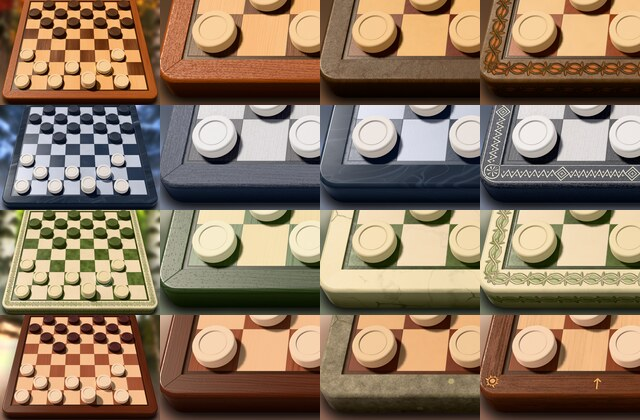
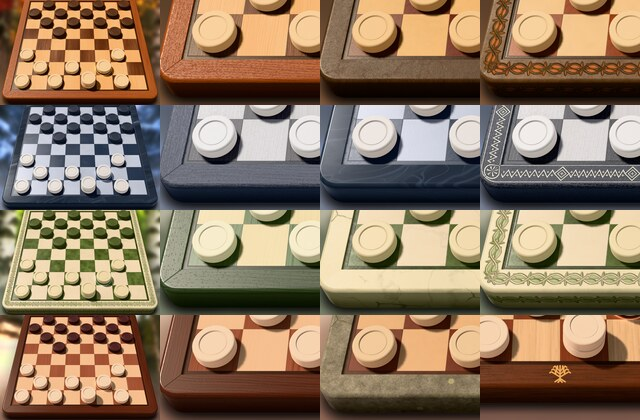
Draw the language as the Earth and crop summer's carved tile to its tree of life.

Changed region(s): [[0.75, 0.7429, 1.0, 1.0]]

diff --git a/prototypes/settings-takes.html b/prototypes/settings-takes.html
@@ -271,7 +271,7 @@
     '<path d="M6 16.5c0 2.5 1.8 4 4.5 4h1.5"/><path d="m10.5 18.5 2 2-2 2"/><path d="M18 7.5c0-2.5-1.8-4-4.5-4H12"/><path d="m13.5 5.5-2-2 2-2"/>';
   const NAMES_G = { a: 'a, as built', b: 'b, wireframe', c: 'c, the Earth', d: 'd, speech', e: 'e, in a ring',
     f: 'f, glyph and A', g: 'g, two bubbles', h: 'h, A to and fro' };
-  const globePick = get('globe', Object.keys(GLOBES), 'f');  // f chosen (2026-11-13; b before it)
+  const globePick = get('globe', Object.keys(GLOBES), 'c');  // c chosen in the app (2026-11-13; b, then f, before it)
   const globeSvg = (k) => `<svg class="icon" viewBox="0 0 24 24" aria-hidden="true">${GLOBES[k]}</svg>`;
   function langTop() {
     if (langUi === 'seg') return `<div class="langseg">${LANGS.map(([k, code]) => tile(lang === k, { lang: k }, code)).join('')}</div>`;

diff --git a/scripts/board_thumbs.py b/scripts/board_thumbs.py
@@ -30,6 +30,9 @@ CELL = (160, 105)       # a picture's texels: scene::THUMB_W × THUMB_H
 PICTURE = (76.0, 50.0)  # the picture in dp, whose shape the crops take
 CORNER_SIZE = 2.9       # the corner's crop: the shot 290% of the picture's width,
 CORNER_AT = (0.03, 0.93)  # placed as CSS background-position places it
+# Where a board's carving shows little at the corner, its crop elsewhere: summer's carved
+# oak has only a small sun there, its tree of life in the near side's middle (2026-11-13).
+CROP_AT = {("summer", "carved"): (0.5, 0.97)}
 
 # By theme (autumn, winter, spring, summer): board3d's flags for each material, and which
 # material is the season's own (Auto), as looks::of has them.
@@ -55,15 +58,15 @@ def whole(shot, out):
         "-filter", "Lanczos", "-resize", f"{CELL[0]}x{CELL[1]}!", out)
 
 
-def corner(shot, out):
+def corner(shot, out, at=CORNER_AT):
     """The near left corner: the picture's window on the shot scaled to CORNER_SIZE of its
     width, at CORNER_AT, in the shot's pixels."""
     w, h = SHOT
     bw = CORNER_SIZE * PICTURE[0]
     bh = bw * h / w
     scale = w / bw
-    x = -CORNER_AT[0] * (PICTURE[0] - bw) * scale
-    y = -CORNER_AT[1] * (PICTURE[1] - bh) * scale
+    x = -at[0] * (PICTURE[0] - bw) * scale
+    y = -at[1] * (PICTURE[1] - bh) * scale
     cw, ch = PICTURE[0] * scale, PICTURE[1] * scale
     run("magick", shot, "-crop", f"{round(cw)}x{round(ch)}+{round(x)}+{round(y)}", "+repage",
         "-filter", "Lanczos", "-resize", f"{CELL[0]}x{CELL[1]}!", out)
@@ -81,7 +84,7 @@ def main():
         whole(WORK / f"{season}-{own}.png", WORK / f"{season}-0.png")
         cells.append(WORK / f"{season}-0.png")
         for k, m in enumerate(MATERIALS):
-            corner(WORK / f"{season}-{m}.png", WORK / f"{season}-{k + 1}.png")
+            corner(WORK / f"{season}-{m}.png", WORK / f"{season}-{k + 1}.png", CROP_AT.get((season, m), CORNER_AT))
             cells.append(WORK / f"{season}-{k + 1}.png")
         row = WORK / f"{season}-row.png"
         run("magick", *cells, "+append", row)

diff --git a/docs/decisions/rendering.md b/docs/decisions/rendering.md
@@ -464,15 +464,16 @@ came on 2026-11-09.
 - The photograph or the plain fade is a Background row of two pictures, first in Look
   (2026-11-13), replacing the switch beside the theme's name (2026-11-09) and its
   halves under the 88 dp floor in a name's column.
-- The language is a button in the title row, a languages icon (`GLOBES.f`: a script's
-  glyph and an A, after Lucide's with our own strokes), its code, and a chevron, opening
-  a small list (2026-11-13; the wireframe globe, `GLOBES.b`, was chosen first the same day
-  and replaced: a languages icon says the choice more plainly than the world does). It replaces the languages' tiles on
+- The language is a button in the title row, the Earth (`GLOBES.c`: a ring round three
+  filled continents), its code, and a chevron, opening a small list (2026-11-13). Chosen
+  on the Mac after two others the same day: the wireframe globe (`GLOBES.b`) and a
+  languages icon after Lucide's (`GLOBES.f`, a glyph and an A), which on the app's
+  screen read less well than the Earth. It replaces the languages' tiles on
   glass in the title row (2026-11-07), which took its width from the title as languages
   are added, and a Language section at the list's foot (the prototypes' `langui=foot`),
   out of sight below the fold. Rejected: the codes as two tiles in the title row
-  (`langui=seg`), the globes (a, as built; b, wireframe; c, the Earth; e, a globe in a
-  ring), a speech bubble with an A (d), and the glyphs in two bubbles (g) or with arrows
+  (`langui=seg`), the other globes (a, as built; b, wireframe; e, a globe in a
+  ring), the languages glyph and A (f), a speech bubble with an A (d), and the glyphs in two bubbles (g) or with arrows
   between them (h).
 
 **The puzzle picker** (`puzzles.html`'s take a, a library list, chosen 2026-11-09).

diff --git a/docs/architecture/rendering.md b/docs/architecture/rendering.md
@@ -740,8 +740,7 @@ take b, `plain.html`'s fade b, and the like) are in git history only
   button in the row labels' 30 dp face, back is the arrow over the word in an 88 dp
   square; a title still too wide takes a smaller face, or none.
   **The language** is a button at the title row's right end, on glass as back is: a
-  languages icon (`gui::GLOBE`: a script's glyph at the top left, a bar, its tick, a
-  sweeping stroke and its foot, and an A at the bottom right), the language shown's code ("EN", "ET", from `strings::LANGUAGES`) in the
+  the Earth (`gui::GLOBE`: a ring round three filled continents), the language shown's code ("EN", "ET", from `strings::LANGUAGES`) in the
   body face, and a chevron down, lit while its list is open. A tap opens a small glass
   list under it, right-aligned with it, over the screen: each language a row 88 dp tall,
   its code dim, its name in itself, and a tick in the glow color on the one shown, which
